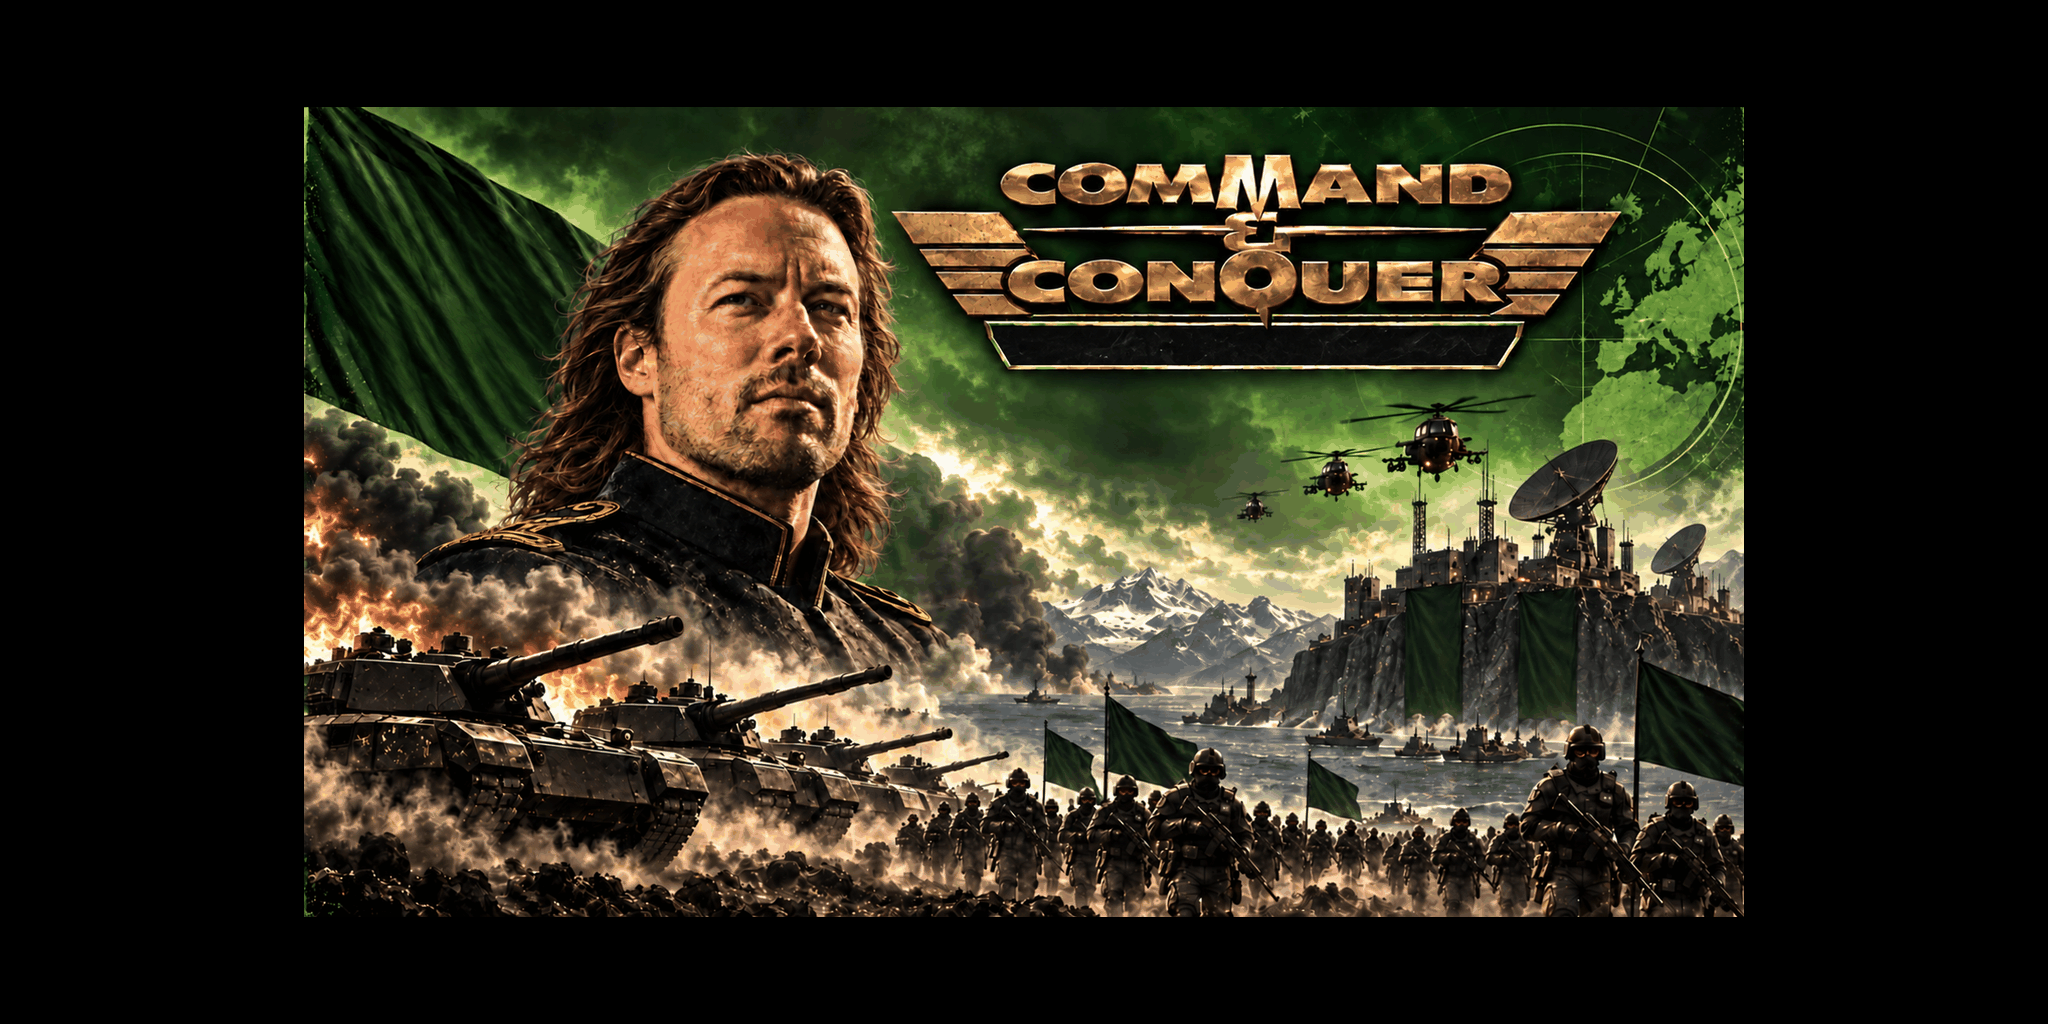
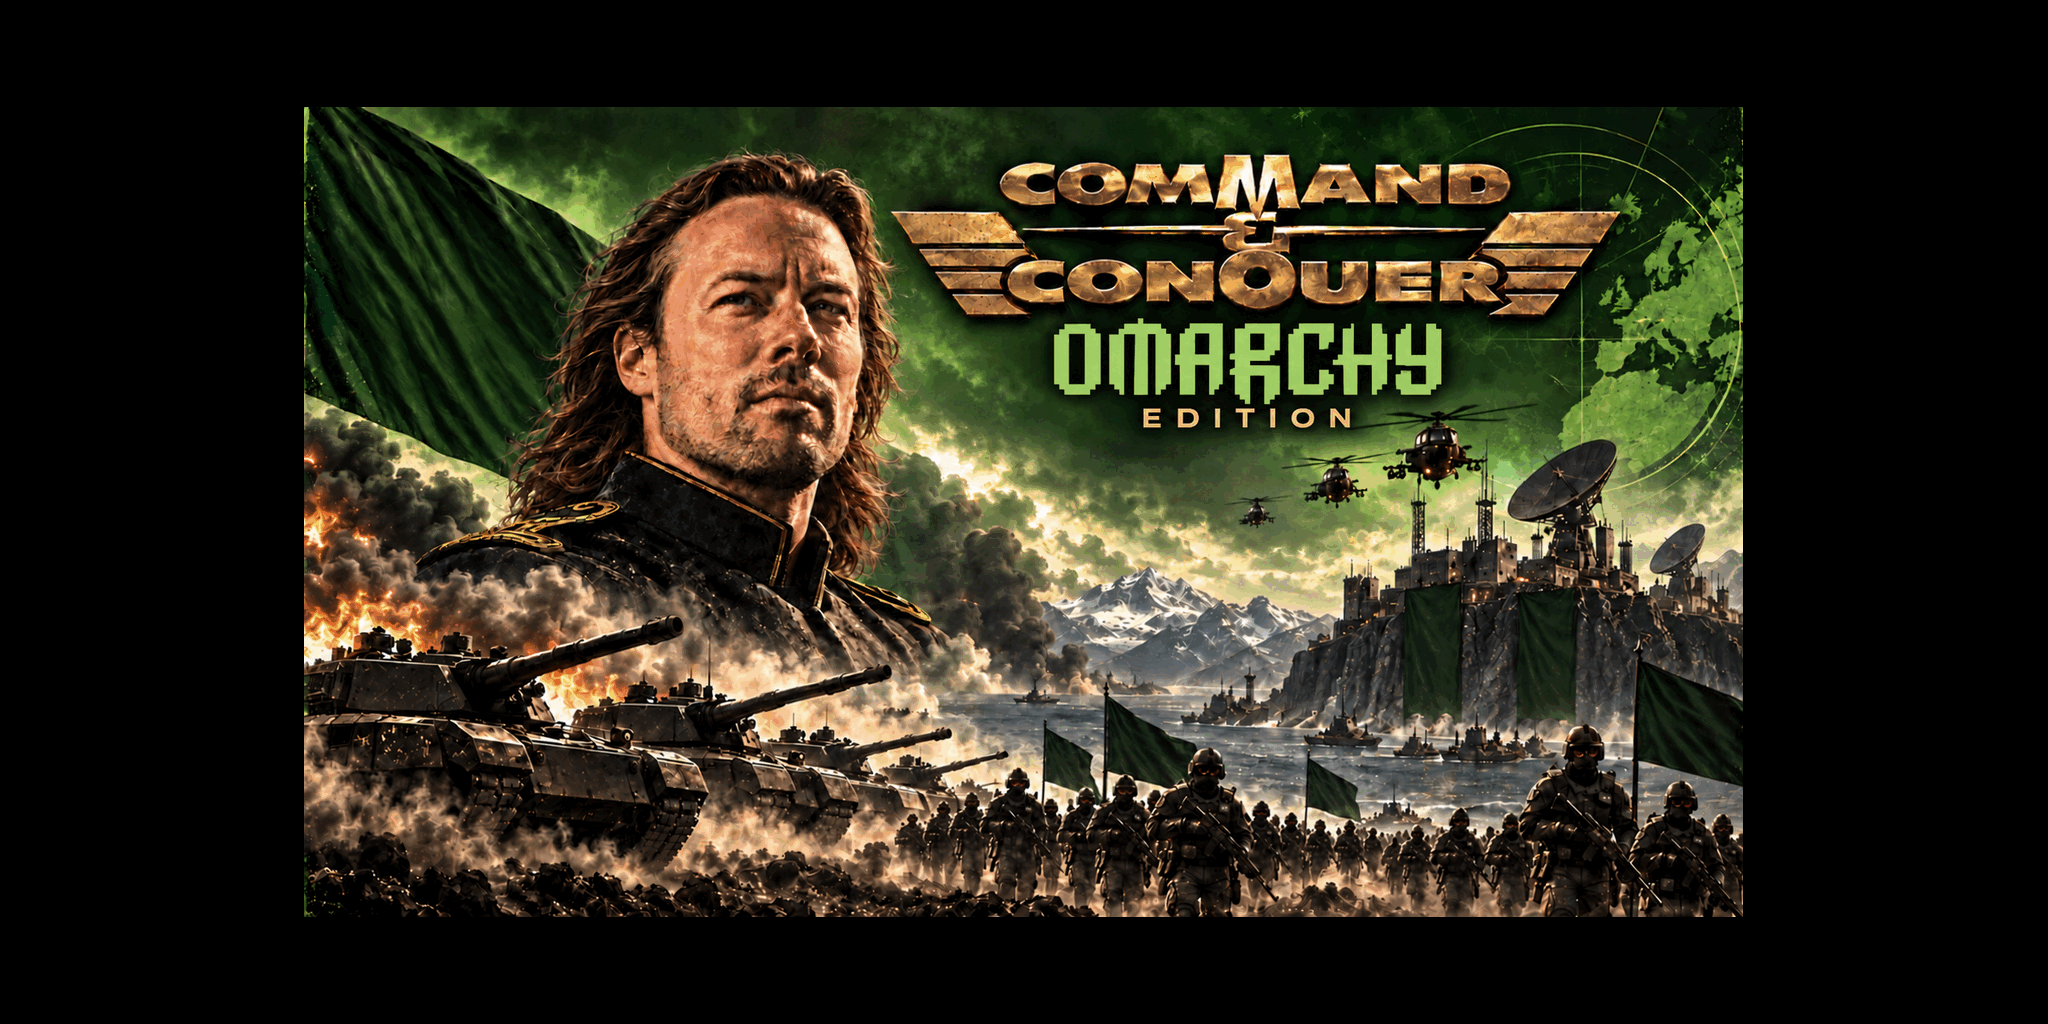
Use approved Omarchy Edition poster in preview 5

diff --git a/tests/test_installer.py b/tests/test_installer.py
@@ -32,7 +32,7 @@ class InstallerTests(unittest.TestCase):
         (self.bundle / 'mods/omarchy').mkdir(parents=True)
         (self.bundle / 'mods/omarchy/mod.yaml').write_text('Assemblies: OpenRA.Mods.Omarchy.dll\n')
         (self.bundle / 'libhostfxr.so').write_bytes(b'test runtime')
-        (self.bundle / 'OMARCHY_VERSION').write_text('v0.0.1-preview.4\n')
+        (self.bundle / 'OMARCHY_VERSION').write_text('v0.0.1-preview.5\n')
         self.script(self.bundle / 'OpenRA', 'printf "%s\\n" "$@" > "$CALLS.args"')
         self.script(self.bundle / 'OpenRA.Utility', 'test "${FAIL_CHECK:-0}" = 0; printf "%s\\n" "$*" >> "$CALLS"')
         self.write_manifest()

diff --git a/tools/build_bundle.py b/tools/build_bundle.py
@@ -6,7 +6,7 @@ import shutil
 from pathlib import Path
 
 ROOT = Path(__file__).resolve().parent.parent
-VERSION = 'v0.0.1-preview.4'
+VERSION = 'v0.0.1-preview.5'
 
 
 def build(engine, published, mods, output):

diff --git a/README.md b/README.md
@@ -1,4 +1,4 @@
-> **Bundled preview 4:** includes a pinned engine and runtime, with the custom roster built into the mod. [Download the installer](https://github.com/tcballard/command-and-conquer-omarchy/releases/tag/v0.0.1-preview.4). It no longer depends on the system OpenRA package. First launch may download Red Alert terrain and sounds.
+> **Bundled preview 5:** includes a pinned engine and runtime, with the custom roster built into the mod. [Download the installer](https://github.com/tcballard/command-and-conquer-omarchy/releases/tag/v0.0.1-preview.5). It no longer depends on the system OpenRA package. First launch may download Red Alert terrain and sounds.
 
 # Command & Conquer: Omarchy Edition
 
@@ -13,7 +13,7 @@ Telemetry, and a particularly aggressive Antivirus.
 **Package Conflict** gives both sides room to build, equal ore fields and
 normal skirmish AI. No scripted waves or campaign countdown.
 
-**[Download the preview installer →](https://github.com/tcballard/command-and-conquer-omarchy/releases/download/v0.0.1-preview.4/install-omarchy-edition.sh)**
+**[Download the preview installer →](https://github.com/tcballard/command-and-conquer-omarchy/releases/download/v0.0.1-preview.5/install-omarchy-edition.sh)**
 
 One file includes the pinned engine, runtime, custom artwork and map, and
 adds an app-menu launcher that opens straight into the Omarchy-only skirmish
@@ -23,7 +23,7 @@ lobby. On your x86_64 Omarchy PC, run:
 bash ~/Downloads/install-omarchy-edition.sh
 ```
 
-[Setup, first launch and uninstall →](SKIRMISH.md) · [Preview release notes →](https://github.com/tcballard/command-and-conquer-omarchy/releases/tag/v0.0.1-preview.4)
+[Setup, first launch and uninstall →](SKIRMISH.md) · [Preview release notes →](https://github.com/tcballard/command-and-conquer-omarchy/releases/tag/v0.0.1-preview.5)
 
 ## A custom army on both sides
 

diff --git a/packaging/PREVIEW-NOTES.md b/packaging/PREVIEW-NOTES.md
@@ -1,6 +1,6 @@
-# Bundled Omarchy Edition — preview 4
+# Bundled Omarchy Edition — preview 5
 
-The approved Command & Conquer poster is now the game's loading screen and is embedded in the bundled installer. It keeps its full composition at different screen sizes.
+The loading screen now shows the approved poster with the subtitle plaque removed, Omarchy lettering and “EDITION” beneath the Command & Conquer title. It is embedded in the bundled installer and keeps its full composition at different screen sizes.
 
 This release includes its own pinned OpenRA engine, .NET runtime, dedicated Omarchy mod and complete 91-entry custom faction roster. It does not install or launch the system OpenRA package. Only Package Conflict is playable.
 
@@ -15,7 +15,7 @@ sha256sum --check install-omarchy-edition.sh.sha256
 bash install-omarchy-edition.sh
 ```
 
-Run without sudo. The app launcher is **Command & Conquer: Omarchy Edition**. The window title says **preview 4 (bundled)**. First launch may download the Red Alert terrain and sounds via the content installer; these are not embedded in the bundle. Existing content is reused where available.
+Run without sudo. The app launcher is **Command & Conquer: Omarchy Edition**. The window title says **preview 5 (bundled)**. First launch may download the Red Alert terrain and sounds via the content installer; these are not embedded in the bundle. Existing content is reused where available.
 
 To verify or launch the precise installed bundle:
 

diff --git a/SKIRMISH.md b/SKIRMISH.md
@@ -7,7 +7,7 @@ skirmish victory rules apply. There are no missions, waves or deadlines.
 
 ## Play on Omarchy
 
-Download **[install-omarchy-edition.sh](https://github.com/tcballard/command-and-conquer-omarchy/releases/download/v0.0.1-preview.4/install-omarchy-edition.sh)** from the preview release,
+Download **[install-omarchy-edition.sh](https://github.com/tcballard/command-and-conquer-omarchy/releases/download/v0.0.1-preview.5/install-omarchy-edition.sh)** from the preview release,
 then run it as your normal user:
 
 ```sh
@@ -20,7 +20,7 @@ Git, Python or sudo is needed. First launch may download Red Alert terrain
 and sounds; existing content is reused where available.
 
 The only playable map is Package Conflict. The window title says
-**preview 4 (bundled)**. There is no map-change button, campaign browser,
+**preview 5 (bundled)**. There is no map-change button, campaign browser,
 multiplayer browser or editor entry point. Leaving the lobby shows
 Skirmish, Settings and Quit.
 
